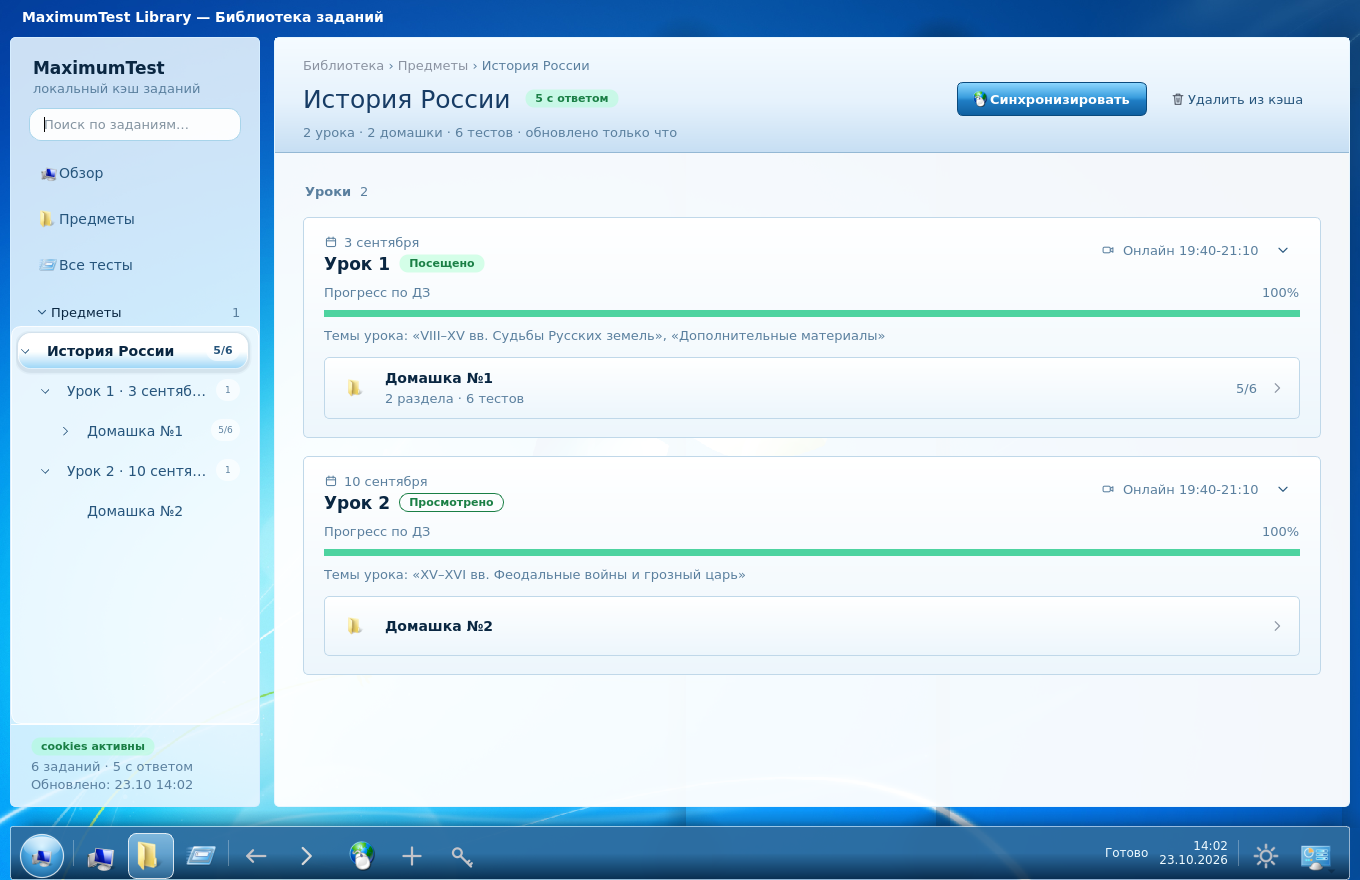
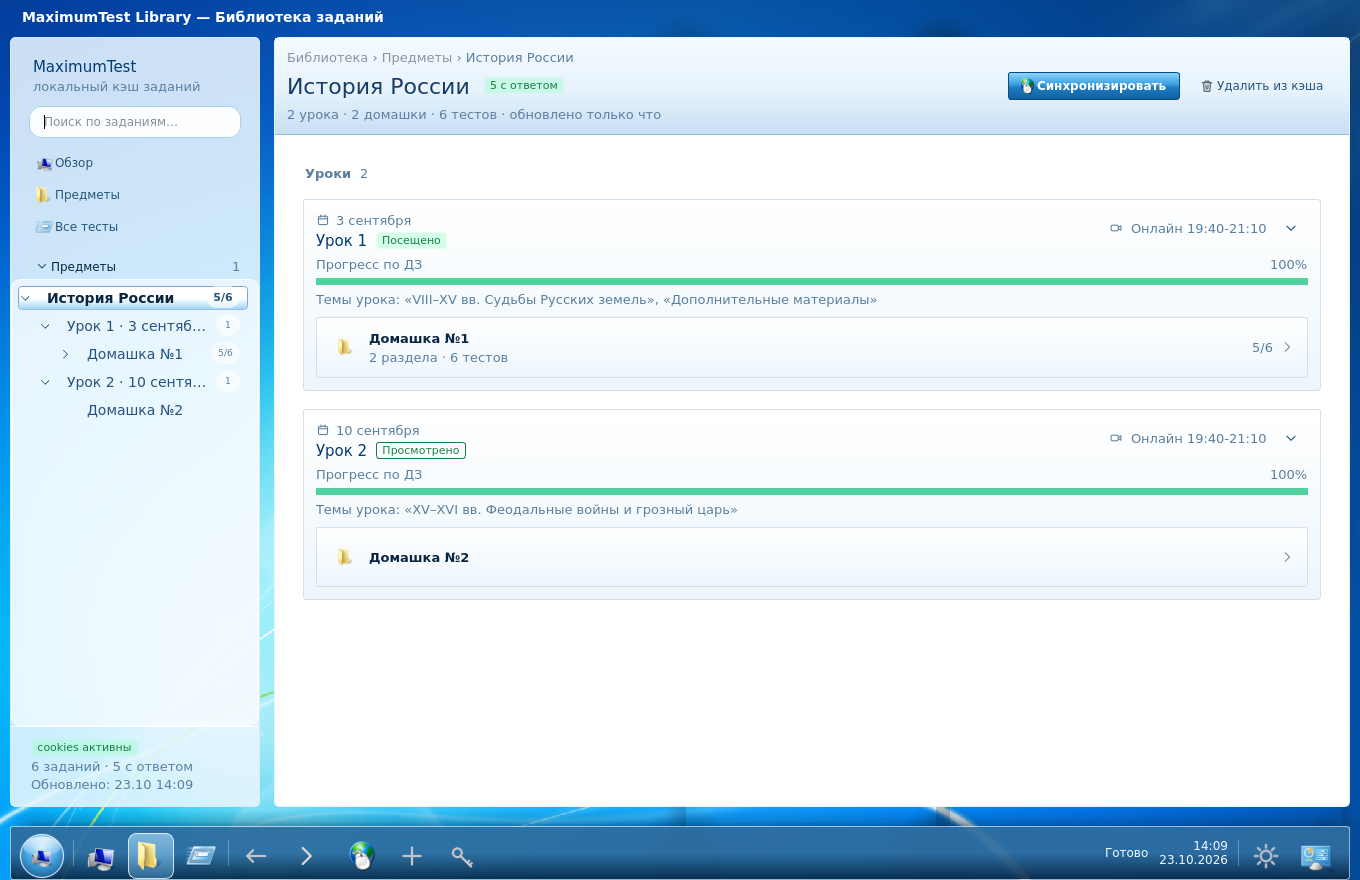
refine(aero): Windows-era typography and compact Explorer layout

diff --git a/mt/theme.py b/mt/theme.py
@@ -621,25 +621,17 @@ $aero
 AERO_QSS = """
 QMainWindow, QDialog, QWizard, QWidget#shell { background: $bg; }
 
-/* --- glass panels: white rim, glossy vertical gradient --- */
-QFrame#sidePanel, QFrame#content {
-    background: qlineargradient(x1:0, y1:0, x2:0, y2:1,
-        stop:0 $panel_top, stop:0.55 $panel_top, stop:1 $panel_bottom);
-    border: 1px solid $panel_edge;
-    border-radius: 18px;
-}
-QFrame#card {
-    background: qlineargradient(x1:0, y1:0, x2:0, y2:1,
-        stop:0 rgba(255, 255, 255, 0.95), stop:1 rgba(222, 244, 255, 0.78));
-    border: 1px solid rgba(255, 255, 255, 0.90);
-    border-radius: 12px;
-}
-QFrame#cardFlat {
-    background: rgba(255, 255, 255, 0.60);
-    border: 1px solid rgba(255, 255, 255, 0.92);
-    border-radius: 9px;
-}
-QFrame#card[clickable="true"]:hover { background: rgba(255, 255, 255, 0.90); }
+/* Vista / Windows 7 used Segoe UI, not the modern Inter display face.
+   Tahoma is an installed Windows-era fallback; no proprietary font is bundled. */
+QWidget { font-family: "Segoe UI", "Tahoma", "Noto Sans", "DejaVu Sans"; font-size: 12px; }
+QLabel[role="mono"], QPlainTextEdit#log { font-family: "Consolas", "DejaVu Sans Mono"; }
+QLabel[role="h2"] { font-size: 15px; font-weight: 400; color: #003c74; }
+QLabel[role="h3"] { font-size: 13px; font-weight: 600; }
+QLabel[role="stat"] { font-size: 28px; font-weight: 400; }
+QLabel[role="statSmall"] { font-size: 20px; font-weight: 400; }
+QLabel[role="badge"] { border-radius: 3px; padding: 1px 5px; font-weight: 400; }
+QToolButton#navRow { font-size: 12px; border-radius: 3px; padding: 0 8px; }
+QFrame#card[clickable="true"]:hover { background: #e8f4ff; border-color: #7da2ce; }
 
 /* Explorer-era proportions: glass frame, white working area, blue command band. */
 QLabel#aeroCaption {
@@ -651,7 +643,7 @@ QFrame#sidePanel {
     border: 1px solid #d6edff; border-radius: 5px;
 }
 QFrame#content {
-    background: rgba(255, 255, 255, 0.96);
+    background: #ffffff;
     border: 1px solid #e6f6ff; border-radius: 5px;
 }
 QFrame#pageHeader {
@@ -659,10 +651,10 @@ QFrame#pageHeader {
         stop:0 #f5fbff,stop:0.55 #e6f2fc,stop:1 #c6def3);
     border-bottom: 1px solid #94b8d4;
 }
-QLabel[role="h1"] { font-size: 25px; font-weight: 400; color: #173c65; }
+QLabel[role="h1"] { font-size: 22px; font-weight: 400; color: #173c65; }
 QFrame#card {
     background: qlineargradient(x1:0,y1:0,x2:0,y2:1,stop:0 #ffffff,stop:1 #edf6fc);
-    border: 1px solid #c0d8e9; border-radius: 5px;
+    border: 1px solid #d3dfea; border-radius: 3px;
 }
 QFrame#cardFlat { border: 1px solid #c0d8e9; border-radius: 4px; }
 QTreeWidget#sidebar { border-radius: 3px; }
@@ -698,8 +690,8 @@ QPushButton {
     background: qlineargradient(x1:0, y1:0, x2:0, y2:1,
         stop:0 #ffffff, stop:0.48 #f0fbff, stop:0.52 #d6eefc, stop:1 #b6dff6);
     border: 1px solid #8cc3e2;
-    border-radius: 6px;
-    padding: 7px 14px;
+    border-radius: 3px;
+    padding: 4px 10px;
 }
 QPushButton:hover {
     background: qlineargradient(x1:0, y1:0, x2:0, y2:1,
@@ -795,7 +787,7 @@ QMenu {
     border-radius: 8px;
     padding: 6px;
 }
-QMenu::item { border-radius: 4px; padding: 7px 26px 7px 12px; }
+QMenu::item { border-radius: 2px; padding: 5px 26px 5px 12px; }
 QMenu::item:selected {
     background: qlineargradient(x1:0, y1:0, x2:0, y2:1,
         stop:0 #d8f1ff, stop:1 #a9dcf8);

diff --git a/mt/ui/main_window.py b/mt/ui/main_window.py
@@ -243,12 +243,14 @@ class SidebarDelegate(QStyledItemDelegate):
         self._secondary = "#3d3d40"
         self._muted = "#5e5e62"
         self._chip = "rgba(255, 255, 255, 0.30)"
+        self._row_height = SidebarTree.ROW_HEIGHT
 
     def set_palette(self, palette: Palette) -> None:
         self._text = palette.text
         self._secondary = palette.text_secondary
         self._muted = palette.muted
         self._chip = palette.selection
+        self._row_height = 28 if palette.name == "aero" else SidebarTree.ROW_HEIGHT
         self._tree.viewport().update()
 
     def paint(self, painter: QPainter, option: QStyleOptionViewItem, index) -> None:
@@ -302,7 +304,7 @@ class SidebarDelegate(QStyledItemDelegate):
         painter.restore()
 
     def sizeHint(self, option: QStyleOptionViewItem, index) -> QSize:
-        return QSize(0, SidebarTree.ROW_HEIGHT)
+        return QSize(0, self._row_height)
 
 
 
@@ -326,6 +328,7 @@ class NavRow(QToolButton):
 
     def set_palette(self, palette: Palette) -> None:
         self._palette = palette
+        self.setFixedHeight(30 if palette.name == "aero" else 44)
         self._refresh_icon()
         self.update()
 
@@ -1789,6 +1792,26 @@ class MainWindow(QMainWindow):
         self.body.updateGeometry()
         self._update_canvas()
 
+    def _apply_density(self) -> None:
+        aero = self._pal.name == "aero"
+        for frame in self.stack.findChildren(QFrame):
+            if frame.objectName() not in ("card", "cardFlat", "pageHeader"):
+                continue
+            layout = frame.layout()
+            if layout is None:
+                continue
+            if not hasattr(frame, "_original_metrics"):
+                m = layout.contentsMargins()
+                frame._original_metrics = ((m.left(), m.top(), m.right(), m.bottom()),
+                                           layout.spacing())
+            margins, spacing = frame._original_metrics
+            if aero:
+                layout.setContentsMargins(*(min(value, 12) for value in margins))
+                layout.setSpacing(min(spacing, 6))
+            else:
+                layout.setContentsMargins(*margins)
+                layout.setSpacing(spacing)
+
     def apply_theme(self, name: str, persist: bool = True) -> None:
         if name == "system":
             scheme = QGuiApplication.styleHints().colorScheme()
@@ -1818,6 +1841,9 @@ class MainWindow(QMainWindow):
         if act and not act.isChecked():
             act.setChecked(True)
         self.sidebar.rebuild(self._pal)
+        # Use Explorer-like density only in Aero, retaining original metrics
+        # for the flat themes. Re-run after navigation for newly built cards.
+        self._apply_density()
         if persist:
             self.settings.setValue("ui/theme", name)
 
@@ -1837,6 +1863,7 @@ class MainWindow(QMainWindow):
         self._from_history = False
         self._update_history_buttons()
         self._open(target)
+        self._apply_density()
 
     def _current_target(self) -> str | None:
         widget = self.stack.currentWidget()

diff --git a/mt/widgets.py b/mt/widgets.py
@@ -177,25 +177,8 @@ def paint_aero_pill(
     painter.save()
     painter.setRenderHint(QPainter.RenderHint.Antialiasing, True)
     body_path = QPainterPath()
+    radius = 3
     body_path.addRoundedRect(box, radius, radius)
-
-    # a cool shadow so the pill lifts off the white panel
-    shade = paint_color(palette.glass_shadow)
-    painter.save()
-    outside = QPainterPath()
-    outside.addRect(box.adjusted(-7.0, -7.0, 7.0, 9.0))
-    painter.setClipPath(outside.subtracted(body_path))
-    painter.setPen(Qt.PenStyle.NoPen)
-    for spread, factor in ((4.0, 0.10), (2.4, 0.16)):
-        shadow = QColor(shade)
-        shadow.setAlphaF(min(1.0, shade.alphaF() * factor * strength))
-        painter.setBrush(shadow)
-        painter.drawRoundedRect(
-            box.adjusted(-spread, -spread + 1.0, spread, spread + 2.0),
-            radius + spread,
-            radius + spread,
-        )
-    painter.restore()
 
     top = paint_color(palette.gloss_top)
     bottom = paint_color(palette.gloss_bottom)
@@ -226,7 +209,7 @@ def paint_aero_pill(
     painter.restore()
 
     # white rim, thinner at the bottom — exactly like an Aero selection
-    rim = paint_color(palette.glass_border)
+    rim = QColor("#7da2ce")
     light = QColor(rim)
     light.setAlphaF(min(1.0, rim.alphaF() * strength))
     dim = QColor(rim)

diff --git a/tests/test_ui_smoke.py b/tests/test_ui_smoke.py
@@ -707,3 +707,28 @@ def test_aero_assets_and_icon_cache_roundtrip(app, window):
     window.apply_theme("light", persist=False)
     assert not window.aero_caption.isVisible()
     assert icons.pixmap("book", "#ffffff", 32).toImage() == flat
+
+
+def test_aero_typography_and_density_restore(app, window):
+    """The period font stack and compact metrics must not leak into flat themes."""
+    from PyQt6.QtWidgets import QFrame
+
+    from mt.theme import stylesheet
+
+    assert 'font-family: "Segoe UI", "Tahoma"' in stylesheet("aero")
+    window.apply_theme("light", persist=False)
+    header = window.homework_page.findChild(QFrame, "pageHeader")
+    original = header.layout().contentsMargins()
+    window.apply_theme("aero", persist=False)
+    app.processEvents()
+    assert header.layout().contentsMargins().top() <= 12
+    assert window.sidebar._nav_rows["dash"].height() == 30
+    delegate = window.sidebar.tree.itemDelegate()
+    assert delegate._row_height == 28
+    window.navigate("homework:777")
+    app.processEvents()
+    window.apply_theme("light", persist=False)
+    app.processEvents()
+    assert header.layout().contentsMargins() == original
+    assert window.sidebar._nav_rows["dash"].height() == 44
+    assert delegate._row_height == 40

diff --git a/mt/__main__.py b/mt/__main__.py
@@ -64,7 +64,7 @@ def main(argv: list[str] | None = None) -> int:
     parser.add_argument("--version", action="version", version=f"%(prog)s {config.APP_VERSION}")
     parser.add_argument("--db", metavar="PATH", help="использовать другую базу SQLite")
     parser.add_argument("--data-dir", metavar="DIR", help="каталог данных (вместо XDG)")
-    parser.add_argument("--theme", choices=("light", "dark", "system"), help="тема оформления")
+    parser.add_argument("--theme", choices=("light", "dark", "aero", "system"), help="тема оформления")
     parser.add_argument("--sync", metavar="SUBJECT_ID", type=int,
                         help="синхронизировать домашку (subject id) и выйти")
     parser.add_argument("--course", metavar="COURSE_ID", type=int,

diff --git a/docs/aero/README.md b/docs/aero/README.md
@@ -6,7 +6,7 @@
 Кнопка темы перебирает светлую, тёмную и Aero. Выбор сохраняется между запусками.
 Прежние темы остаются доступными; данные SQLite и синхронизация не изменены.
 
-- Небесный градиент, солнечная дымка, прозрачные пузыри.
+- Оригинальные обои Windows 7; процедурный небесный фон только при отсутствии файла.
 - Светлые стеклянные панели и глянцевые голубые кнопки.
 - Нижняя панель задач вместо вертикальной навигации.
 - Круглая кнопка «Пуск», меню приложения, статус синхронизации и часы.
@@ -23,7 +23,7 @@
 
 ## Проверка
 
-`ruff check mt tests` — чисто. `pytest tests -q` — 91 passed.
+`ruff check mt tests` — чисто. `pytest tests -q` — 92 passed.
 Добавлены проверки повторного переключения темы, расположения панели задач,
 часов, передачи статуса, навигации и рендеринга страниц.
 
@@ -40,3 +40,18 @@
 иконки, узкая стеклянная рамка, голубая командная полоса в духе Проводника,
 компактные прямоугольные карточки и увеличенные иконки панели задач.
 Ассеты входят в пакет приложения, сетевые запросы для оформления не нужны.
+
+## Типографика и плотность интерфейса
+
+В Aero для всех элементов используется стек `Segoe UI → Tahoma → Noto Sans →
+DejaVu Sans`. Segoe UI — стандартный интерфейсный шрифт Vista/7. На Windows с
+установленным Segoe UI выбирается он; на Linux без него используется доступный
+запасной шрифт. Файлы Microsoft-шрифтов не поставляются с приложением. При наличии
+законно полученного Segoe UI установите его обычным способом в ОС и перезапустите
+приложение. Скриншоты в песочнице сделаны с запасным шрифтом, не с Segoe UI.
+
+Для менее «карточного» вида уменьшены заголовки, статистика и отступы, строки
+дерева имеют высоту 28 px, навигация — 30 px. Выделение — тонкая голубая рамка с
+радиусом 3 px без декоративной тени; основная область непрозрачная белая, как в
+Проводнике. При возврате в прежние темы восстанавливаются их исходные отступы и
+высота строк. Тему можно также запустить через `python -m mt --theme aero`.
